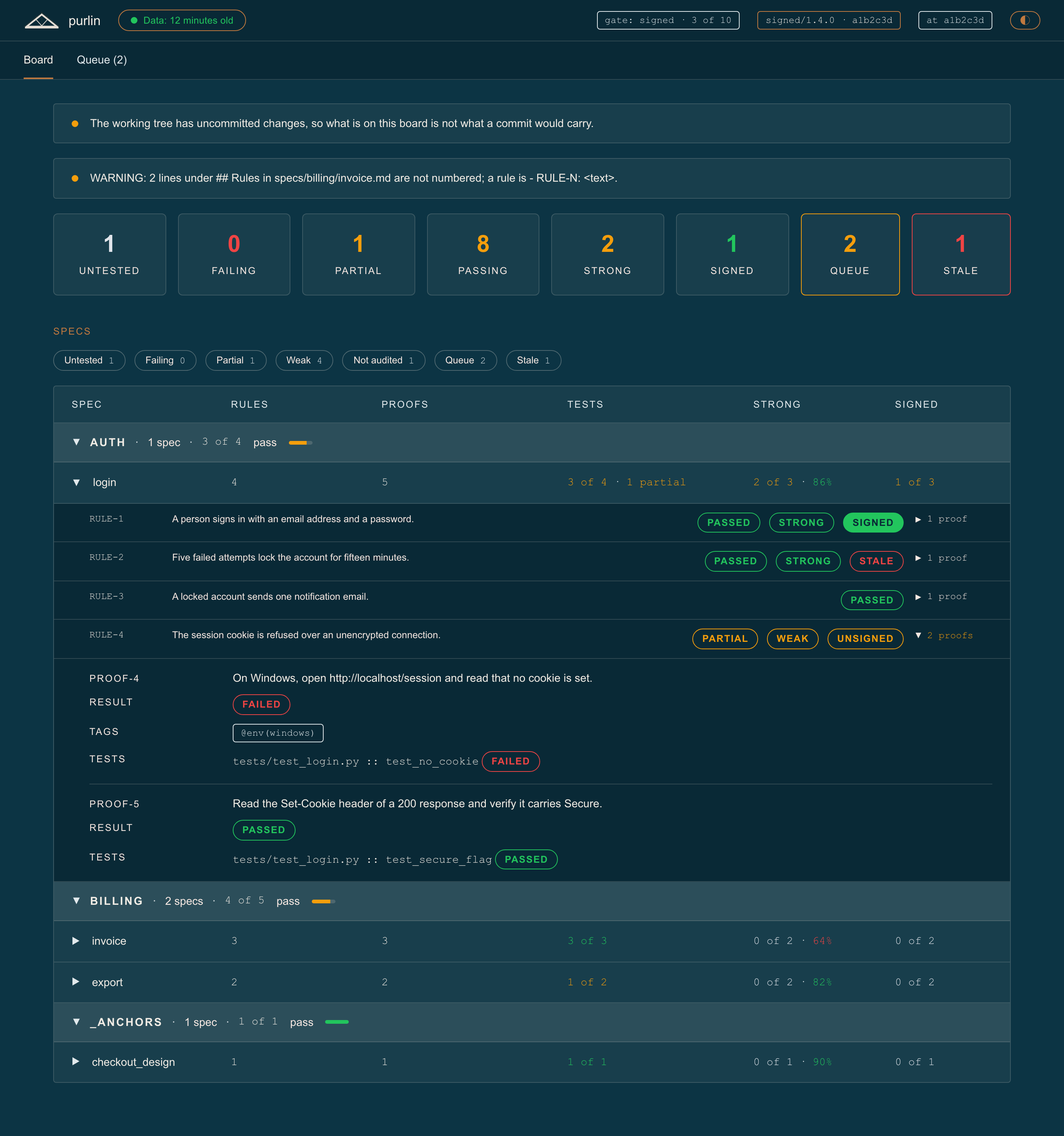
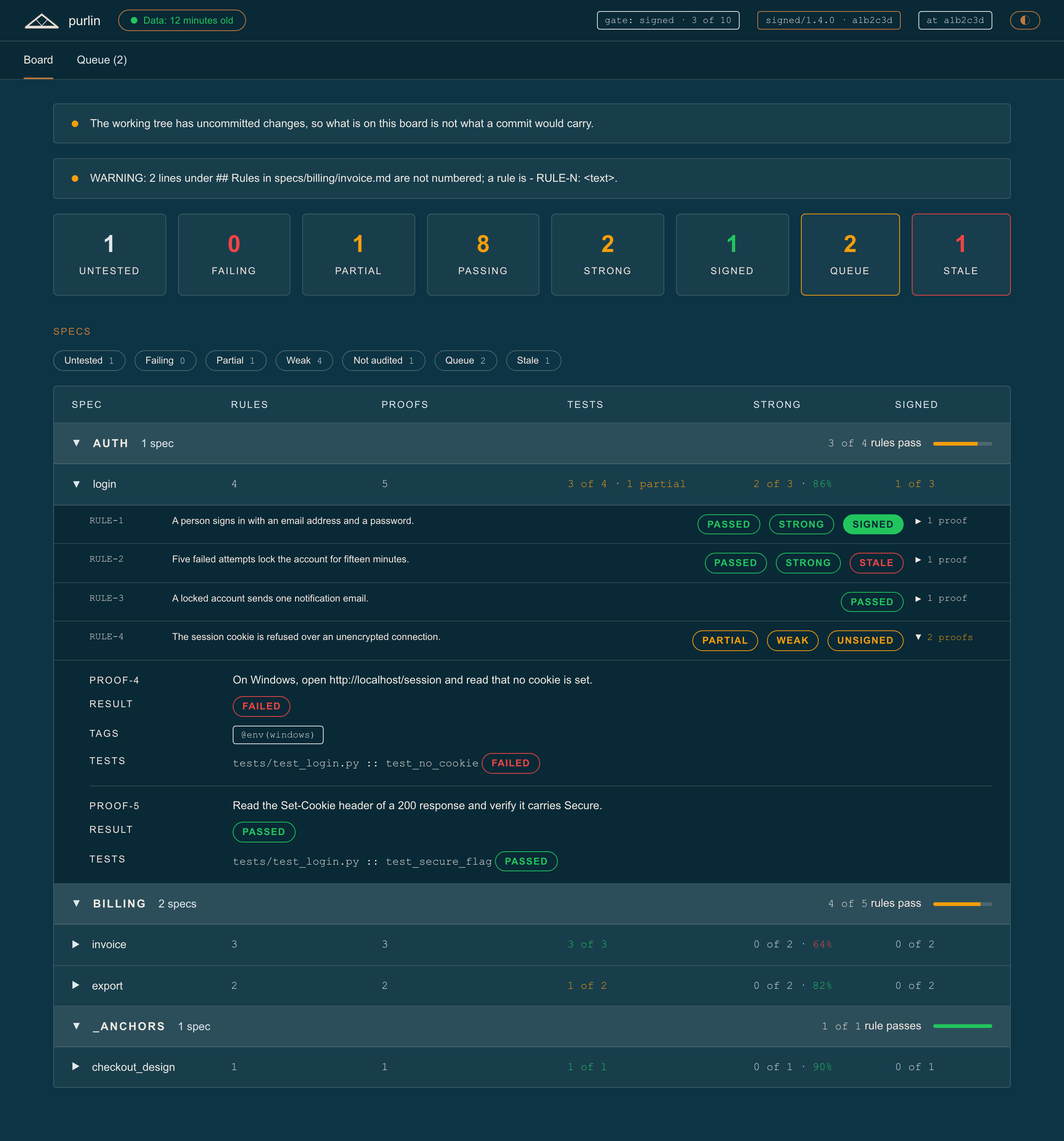
feat(purlin_report): a band has two ends and counts each rule once
The name and its spec count sit at the left, `187 of 187 rules pass` and a
bar of one width at the right, the count beneath the name under 1024
pixels. A band counts the rules its own specs own, so the bands add up to
the top bar's total, and the band folds from the keyboard and says
whether it is open.

Claude-Session: https://claude.ai/code/session_01EY16JPT1BcH9yMJU9cYMBw

diff --git a/scripts/report/purlin-report.html b/scripts/report/purlin-report.html
@@ -60,10 +60,6 @@ h2{font-size:var(--ui-lg);font-weight:var(--weight-bold);margin:0 0 var(--space-
 .pill.solid{background:currentColor}
 .pill b{font-weight:var(--weight-bold)}
 .pill.solid b{color:var(--canvas-deep)}
-.cov{display:inline-flex;align-items:center;gap:var(--space-4);max-width:100%;min-width:0}
-.cov b{font-family:var(--font-mono);font-size:var(--ui-base);font-weight:var(--weight-regular);color:var(--text-primary);white-space:nowrap}
-.cov i{flex:1;min-width:32px;max-width:80px;height:5px;background:var(--border-hairline);border-radius:var(--radius-pill);overflow:hidden;display:inline-block}
-.cov i>span{display:block;height:100%;background:currentColor;transition:width var(--duration-slow) var(--ease-out)}
 pre.code{margin:0;font-family:var(--font-mono);font-size:var(--ui-sm);line-height:1.55;color:var(--text-primary);padding:var(--space-5);background:var(--surface-sunken);border:1px solid var(--border-default);border-radius:var(--radius-sm);overflow-x:auto;white-space:pre-wrap}
 .strip{display:grid;grid-template-columns:1fr;gap:var(--space-4)}
 .strip.flagged{grid-template-columns:7fr 2fr}
@@ -93,8 +89,16 @@ pre.code{margin:0;font-family:var(--font-mono);font-size:var(--ui-sm);line-heigh
 .tr{cursor:pointer;transition:background var(--duration-fast) var(--ease-standard)}
 .tr:hover{background:var(--hover-tint)}
 .tbl>:last-child{border-bottom:0}
-.group{display:flex;align-items:center;flex-wrap:wrap;gap:var(--space-3);padding:var(--space-4) var(--space-6);background:var(--surface-2);border-bottom:1px solid var(--border-hairline);cursor:pointer}
+.group{display:flex;align-items:center;flex-wrap:wrap;gap:var(--space-3) var(--space-8);padding:var(--space-4) var(--space-6);background:var(--surface-2);border-bottom:1px solid var(--border-hairline);cursor:pointer}
+.group:focus-visible{outline:2px solid var(--accent);outline-offset:-2px}
+.group .gl,.group .gr{display:inline-flex;align-items:center;gap:var(--space-4);white-space:nowrap}
+.group .gr{margin-left:auto}
 .group .gt{font-weight:var(--weight-bold);font-size:var(--ui-base);letter-spacing:var(--tracking-label);text-transform:uppercase;color:var(--text-primary)}
+.group .gs{font-size:var(--ui-base);color:var(--text-muted)}
+.group .gc{font-size:var(--ui-base);color:var(--text-secondary)}
+.group .gc b{font-family:var(--font-mono);font-weight:var(--weight-regular)}
+.group .bar{flex:none;width:80px;height:5px;background:var(--border-hairline);border-radius:var(--radius-pill);overflow:hidden;display:inline-block}
+.group .bar>span{display:block;height:100%;background:currentColor}
 .caret{color:var(--text-muted);font-size:var(--ui-sm);flex:none}
 .name{display:flex;align-items:center;gap:var(--space-4);min-width:0}
 .name .n{font-size:var(--ui-base);color:var(--text-primary);overflow:hidden;text-overflow:ellipsis;white-space:nowrap}
@@ -127,7 +131,7 @@ pre.code{margin:0;font-family:var(--font-mono);font-size:var(--ui-sm);line-heigh
 .rev .cmd{white-space:normal;overflow-wrap:anywhere}
 .rev.th{cursor:default}
 .rev.th:hover{background:none}
-@media (max-width:1023px){.topbar{column-gap:var(--space-4);padding:var(--space-3) var(--space-5)}.topbar .spacer{flex-basis:100%;height:0}.tabs{flex-wrap:wrap;column-gap:var(--space-6);padding:0 var(--space-5)}.wrap{padding:var(--space-6) var(--space-5)}.strip,.strip.flagged{grid-template-columns:repeat(4,minmax(0,1fr))}.tiles,.flags{display:contents}.tbl.specs{display:block}.specs .th{display:none}.specs .tr{display:flex;flex-wrap:wrap;align-items:baseline;column-gap:var(--space-6);row-gap:var(--space-2);padding:var(--space-4) var(--space-5)}.specs .tr>div{flex:none}.specs .tr>div:first-child{flex-basis:100%}.specs .tr>div:empty{display:none}.tr>div[data-label],.rev>[data-label]{display:inline-flex;align-items:baseline;gap:var(--space-2);white-space:nowrap}.tr>div[data-label]::before,.rev>[data-label]::before{content:attr(data-label);font-size:var(--ui-sm);letter-spacing:var(--tracking-label);text-transform:uppercase;color:var(--text-secondary)}.rule{grid-template-columns:auto 1fr;grid-template-areas:"rid rp" "rt rt" "rm rm";gap:var(--space-2) var(--space-4);padding:var(--space-3) var(--space-5)}.rule .rid{grid-area:rid;white-space:nowrap}.rule .rp{grid-area:rp;justify-content:flex-start}.rule .rt{grid-area:rt}.rule .rm{grid-area:rm}.rule-proofs{padding:var(--space-4) var(--space-5)}.rev{display:flex;flex-wrap:wrap;align-items:baseline;column-gap:var(--space-6);row-gap:var(--space-2);padding:var(--space-4) var(--space-5)}.rev.th{display:none}.rev>.claim,.rev>.cmd{flex-basis:100%}.group{padding:var(--space-4) var(--space-5)}}
+@media (max-width:1023px){.topbar{column-gap:var(--space-4);padding:var(--space-3) var(--space-5)}.topbar .spacer{flex-basis:100%;height:0}.tabs{flex-wrap:wrap;column-gap:var(--space-6);padding:0 var(--space-5)}.wrap{padding:var(--space-6) var(--space-5)}.strip,.strip.flagged{grid-template-columns:repeat(4,minmax(0,1fr))}.tiles,.flags{display:contents}.tbl.specs{display:block}.specs .th{display:none}.specs .tr{display:flex;flex-wrap:wrap;align-items:baseline;column-gap:var(--space-6);row-gap:var(--space-2);padding:var(--space-4) var(--space-5)}.specs .tr>div{flex:none}.specs .tr>div:first-child{flex-basis:100%}.specs .tr>div:empty{display:none}.tr>div[data-label],.rev>[data-label]{display:inline-flex;align-items:baseline;gap:var(--space-2);white-space:nowrap}.tr>div[data-label]::before,.rev>[data-label]::before{content:attr(data-label);font-size:var(--ui-sm);letter-spacing:var(--tracking-label);text-transform:uppercase;color:var(--text-secondary)}.rule{grid-template-columns:auto 1fr;grid-template-areas:"rid rp" "rt rt" "rm rm";gap:var(--space-2) var(--space-4);padding:var(--space-3) var(--space-5)}.rule .rid{grid-area:rid;white-space:nowrap}.rule .rp{grid-area:rp;justify-content:flex-start}.rule .rt{grid-area:rt}.rule .rm{grid-area:rm}.rule-proofs{padding:var(--space-4) var(--space-5)}.rev{display:flex;flex-wrap:wrap;align-items:baseline;column-gap:var(--space-6);row-gap:var(--space-2);padding:var(--space-4) var(--space-5)}.rev.th{display:none}.rev>.claim,.rev>.cmd{flex-basis:100%}.group{padding:var(--space-4) var(--space-5)}.group .gr{margin-left:0;flex-basis:100%}}
 @media (max-width:599px){.strip,.strip.flagged{grid-template-columns:repeat(2,minmax(0,1fr))}.wrap{padding:var(--space-5) var(--space-4)}.kv{grid-template-columns:1fr;gap:var(--space-1) 0}.kv dd{margin-bottom:var(--space-3)}}
 </style>
 </head>
@@ -437,16 +441,23 @@ function groupBand(name, features, columns) {
   var passing = 0;
   var total = 0;
   features.forEach(function (feature) {
-    passing += reached(feature.rollup || {}, 'passed');
-    total += (feature.rollup || {}).rules || 0;
+    ownRules(feature).forEach(function (rule) {
+      total += 1;
+      passing += cellWord(rule, 'passed') === 'passed' ? 1 : 0;
+    });
   });
-  return '<div class="group" data-act="group" data-group="' + esc(name) + '">'
-    + '<span class="caret">' + (open ? '▼' : '▶') + '</span>'
-    + '<span class="gt">' + esc(name) + '</span><span class="muted">·</span>'
-    + '<span class="sec">' + features.length
-    + (features.length === 1 ? ' spec' : ' specs')
-    + '</span><span class="muted">·</span>' + ratio(passing, total, 'pass')
-    + '</div>'
+  var pct = total ? Math.round((passing / total) * 100) : 0;
+  var hue = total && passing === total ? 'pass' : passing ? 'warn' : 'idle';
+  return '<div class="group" role="button" tabindex="0" aria-expanded="'
+    + (open ? 'true' : 'false') + '" data-act="group" data-group="'
+    + esc(name) + '"><span class="gl"><span class="caret" aria-hidden="true">'
+    + (open ? '▼' : '▶') + '</span><span class="gt">' + esc(name)
+    + '</span><span class="gs">' + features.length
+    + (features.length === 1 ? ' spec' : ' specs') + '</span></span>'
+    + '<span class="gr"><span class="gc"><b>' + passing + ' ' + WORDS.of + ' '
+    + total + '</b> ' + (total === 1 ? 'rule passes' : 'rules pass')
+    + '</span><i class="bar" style="color:var(--state-' + hue + ')"><span'
+    + ' style="width:' + pct + '%"></span></i></span></div>'
     + (open ? features.map(function (feature) {
       return featureRow(feature, columns);
     }).join('') : '');
@@ -819,14 +830,6 @@ function ruleNamed(owner, id) {
 function listedRule(entry) {
   return ruleNamed(entry.owner || entry.feature, entry.rule);
 }
-function ratio(count, total, suffix) {
-  var pct = total ? Math.round((count / total) * 100) : 0;
-  return '<span class="cov" style="color:var(--state-'
-    + (total && count === total ? 'pass' : count ? 'warn' : 'idle')
-    + ')"><b>' + count + ' ' + WORDS.of + ' ' + total + '</b>'
-    + (suffix ? '<span class="sec">' + esc(suffix) + '</span>' : '')
-    + '<i><span style="width:' + pct + '%"></span></i></span>';
-}
 function counts(items) {
   return '<span class="trio">' + items.filter(function (item, index) {
     return index === 0 || item[0];
@@ -1168,6 +1171,17 @@ document.addEventListener('visibilitychange', function () {
 window.addEventListener('focus', refreshIfStale);
 setInterval(tickAge, REFRESH_AFTER * 1000);
 document.getElementById('app').addEventListener('click', onClick);
+document.getElementById('app').addEventListener('keydown', function (event) {
+  var node = event.target;
+  if (!node || node.getAttribute('role') !== 'button'
+      || (event.key !== 'Enter' && event.key !== ' ')) { return; }
+  event.preventDefault();
+  var group = node.getAttribute('data-group');
+  onClick(event);
+  var again = group && document.querySelector('[data-act="group"][data-group="'
+    + CSS.escape(group) + '"]');
+  if (again) { again.focus(); }
+});
 loadData(function (payload) {
   DATA = payload;
   render();

diff --git a/scripts/report/src/styles.css b/scripts/report/src/styles.css
@@ -42,10 +42,6 @@ h2{font-size:var(--ui-lg);font-weight:var(--weight-bold);margin:0 0 var(--space-
 .pill.solid{background:currentColor}
 .pill b{font-weight:var(--weight-bold)}
 .pill.solid b{color:var(--canvas-deep)}
-.cov{display:inline-flex;align-items:center;gap:var(--space-4);max-width:100%;min-width:0}
-.cov b{font-family:var(--font-mono);font-size:var(--ui-base);font-weight:var(--weight-regular);color:var(--text-primary);white-space:nowrap}
-.cov i{flex:1;min-width:32px;max-width:80px;height:5px;background:var(--border-hairline);border-radius:var(--radius-pill);overflow:hidden;display:inline-block}
-.cov i>span{display:block;height:100%;background:currentColor;transition:width var(--duration-slow) var(--ease-out)}
 pre.code{margin:0;font-family:var(--font-mono);font-size:var(--ui-sm);line-height:1.55;color:var(--text-primary);padding:var(--space-5);background:var(--surface-sunken);border:1px solid var(--border-default);border-radius:var(--radius-sm);overflow-x:auto;white-space:pre-wrap}
 
 /* --- stat strip and flag card ---------------------------------------- */
@@ -83,8 +79,16 @@ pre.code{margin:0;font-family:var(--font-mono);font-size:var(--ui-sm);line-heigh
 .tr{cursor:pointer;transition:background var(--duration-fast) var(--ease-standard)}
 .tr:hover{background:var(--hover-tint)}
 .tbl>:last-child{border-bottom:0}
-.group{display:flex;align-items:center;flex-wrap:wrap;gap:var(--space-3);padding:var(--space-4) var(--space-6);background:var(--surface-2);border-bottom:1px solid var(--border-hairline);cursor:pointer}
+.group{display:flex;align-items:center;flex-wrap:wrap;gap:var(--space-3) var(--space-8);padding:var(--space-4) var(--space-6);background:var(--surface-2);border-bottom:1px solid var(--border-hairline);cursor:pointer}
+.group:focus-visible{outline:2px solid var(--accent);outline-offset:-2px}
+.group .gl,.group .gr{display:inline-flex;align-items:center;gap:var(--space-4);white-space:nowrap}
+.group .gr{margin-left:auto}
 .group .gt{font-weight:var(--weight-bold);font-size:var(--ui-base);letter-spacing:var(--tracking-label);text-transform:uppercase;color:var(--text-primary)}
+.group .gs{font-size:var(--ui-base);color:var(--text-muted)}
+.group .gc{font-size:var(--ui-base);color:var(--text-secondary)}
+.group .gc b{font-family:var(--font-mono);font-weight:var(--weight-regular)}
+.group .bar{flex:none;width:80px;height:5px;background:var(--border-hairline);border-radius:var(--radius-pill);overflow:hidden;display:inline-block}
+.group .bar>span{display:block;height:100%;background:currentColor}
 .caret{color:var(--text-muted);font-size:var(--ui-sm);flex:none}
 .name{display:flex;align-items:center;gap:var(--space-4);min-width:0}
 .name .n{font-size:var(--ui-base);color:var(--text-primary);overflow:hidden;text-overflow:ellipsis;white-space:nowrap}
@@ -151,6 +155,7 @@ pre.code{margin:0;font-family:var(--font-mono);font-size:var(--ui-sm);line-heigh
 .rev.th{display:none}
 .rev>.claim,.rev>.cmd{flex-basis:100%}
 .group{padding:var(--space-4) var(--space-5)}
+.group .gr{margin-left:0;flex-basis:100%}
 }
 @media (max-width:599px){
 .strip,.strip.flagged{grid-template-columns:repeat(2,minmax(0,1fr))}

diff --git a/scripts/report/src/board.js b/scripts/report/src/board.js
@@ -305,27 +305,37 @@ function proofsUnder(rule) {
   return '<div class="rule-proofs">' + body + '</div>';
 }
 
-/* The band over a category's specs, and what its two numbers are. `MCP (6) 5
-   of 113` left the reader to guess both, so the band says them: how many specs
-   the category holds, then how many of their rules pass their tests, in the
-   same words and the same mono face the tiles use. The gate ratio is not
-   here: the `Signed` column carries it for each spec and the top bar's gate
-   chip carries it for the project. */
+/* The band over a category's specs, one row with two ends. At the left the
+   glyph, the category's name, which is the strongest thing in the band, and
+   how many specs it holds; at the right how many of their rules pass their
+   tests, `187 of 187 rules pass`, and a bar of one fixed width, so the bars
+   line up down the page. A band counts each rule once, under the spec that
+   owns it, as the tiles do: a shared rule is counted in its anchor's band,
+   so the bands add up to the top bar's total. The whole band is the control
+   that folds the group, from the keyboard too, and says whether it is open.
+   Under 1024 pixels the right end drops beneath the left. */
 function groupBand(name, features, columns) {
   var open = VIEW.groups[name] !== false;
   var passing = 0;
   var total = 0;
   features.forEach(function (feature) {
-    passing += reached(feature.rollup || {}, 'passed');
-    total += (feature.rollup || {}).rules || 0;
+    ownRules(feature).forEach(function (rule) {
+      total += 1;
+      passing += cellWord(rule, 'passed') === 'passed' ? 1 : 0;
+    });
   });
-  return '<div class="group" data-act="group" data-group="' + esc(name) + '">'
-    + '<span class="caret">' + (open ? '▼' : '▶') + '</span>'
-    + '<span class="gt">' + esc(name) + '</span><span class="muted">·</span>'
-    + '<span class="sec">' + features.length
-    + (features.length === 1 ? ' spec' : ' specs')
-    + '</span><span class="muted">·</span>' + ratio(passing, total, 'pass')
-    + '</div>'
+  var pct = total ? Math.round((passing / total) * 100) : 0;
+  var hue = total && passing === total ? 'pass' : passing ? 'warn' : 'idle';
+  return '<div class="group" role="button" tabindex="0" aria-expanded="'
+    + (open ? 'true' : 'false') + '" data-act="group" data-group="'
+    + esc(name) + '"><span class="gl"><span class="caret" aria-hidden="true">'
+    + (open ? '▼' : '▶') + '</span><span class="gt">' + esc(name)
+    + '</span><span class="gs">' + features.length
+    + (features.length === 1 ? ' spec' : ' specs') + '</span></span>'
+    + '<span class="gr"><span class="gc"><b>' + passing + ' ' + WORDS.of + ' '
+    + total + '</b> ' + (total === 1 ? 'rule passes' : 'rules pass')
+    + '</span><i class="bar" style="color:var(--state-' + hue + ')"><span'
+    + ' style="width:' + pct + '%"></span></i></span></div>'
     + (open ? features.map(function (feature) {
       return featureRow(feature, columns);
     }).join('') : '');

diff --git a/scripts/report/src/app.js b/scripts/report/src/app.js
@@ -209,18 +209,6 @@ function listedRule(entry) {
   return ruleNamed(entry.owner || entry.feature, entry.rule);
 }
 
-/* `n of m` with a bar beside it. The bar is the share, so a spec of three
-   rules and a spec of three hundred read at the same glance. `suffix` says
-   what the share is of, where the column heading is not there to say it. */
-function ratio(count, total, suffix) {
-  var pct = total ? Math.round((count / total) * 100) : 0;
-  return '<span class="cov" style="color:var(--state-'
-    + (total && count === total ? 'pass' : count ? 'warn' : 'idle')
-    + ')"><b>' + count + ' ' + WORDS.of + ' ' + total + '</b>'
-    + (suffix ? '<span class="sec">' + esc(suffix) + '</span>' : '')
-    + '<i><span style="width:' + pct + '%"></span></i></span>';
-}
-
 /* Several counts in one cell, each labelled with the word it counts and set
    in that word's tone. `24 passed · 2 failing` says what a bare `24 · 2 · 0`
    left the reader to work out from the heading. The first part is always
@@ -674,6 +662,19 @@ document.addEventListener('visibilitychange', function () {
 window.addEventListener('focus', refreshIfStale);
 setInterval(tickAge, REFRESH_AFTER * 1000);
 document.getElementById('app').addEventListener('click', onClick);
+/* A band is a control drawn as a row, so Enter and Space press it as they
+   press a button, and the focus comes back to it once the page is drawn. */
+document.getElementById('app').addEventListener('keydown', function (event) {
+  var node = event.target;
+  if (!node || node.getAttribute('role') !== 'button'
+      || (event.key !== 'Enter' && event.key !== ' ')) { return; }
+  event.preventDefault();
+  var group = node.getAttribute('data-group');
+  onClick(event);
+  var again = group && document.querySelector('[data-act="group"][data-group="'
+    + CSS.escape(group) + '"]');
+  if (again) { again.focus(); }
+});
 loadData(function (payload) {
   DATA = payload;
   render();

diff --git a/dev/test_purlin_report.py b/dev/test_purlin_report.py
@@ -624,10 +624,60 @@ def test_the_group_band_says_what_its_numbers_are(browser, tmp_path):
     bands = page.eval_on_selector_all(
         '.group',
         r'els => els.map(e => e.innerText.replace(/\s+/g, " ").trim())')
-    assert bands == ['\u25bc AUTH \u00b7 1 spec \u00b7 3 of 4 pass',
-                     '\u25bc BILLING \u00b7 2 specs \u00b7 4 of 5 pass',
-                     '\u25bc _ANCHORS \u00b7 1 spec \u00b7 1 of 1 pass']
+    assert bands == ['\u25bc AUTH 1 spec 3 of 4 rules pass',
+                     '\u25bc BILLING 2 specs 4 of 5 rules pass',
+                     '\u25bc _ANCHORS 1 spec 1 of 1 rule passes']
     page.close()
+
+
+# Each band's two ends and its bar: where each sits, and how wide the bar is.
+BAND_ENDS = r"""els => els.map(e => {
+  const l = e.querySelector('.gl').getBoundingClientRect();
+  const r = e.querySelector('.gr').getBoundingClientRect();
+  const bar = e.querySelector('.bar').getBoundingClientRect();
+  const gap = e.querySelector('.gs').getBoundingClientRect().left
+    - e.querySelector('.gt').getBoundingClientRect().right;
+  return {sameLine: Math.abs(l.top - r.top) < 4, rightEdge: r.right,
+          boxRight: e.getBoundingClientRect().right, leftOfRight: r.left,
+          leftOfLeft: l.left, barWidth: bar.width, barRight: bar.right,
+          gap: gap, count: parseInt(e.querySelector('.gc b').textContent
+            .split(' of ')[1], 10)};
+})"""
+
+
+# purlin: purlin_report PROOF-77
+def test_a_band_has_two_ends_and_counts_each_rule_once(browser, tmp_path):
+    for name in ('regulated', 'team'):
+        payload = payload_named(name)
+        page = open_board(browser, tmp_path / name, payload,
+                          viewport={'width': 1500, 'height': 900})
+        ends = page.eval_on_selector_all('.group', BAND_ENDS)
+        assert sum(end['count'] for end in ends) == payload['summary']['rules']
+        assert ('of %d' % payload['summary']['rules']) in page.inner_text(
+            '.topbar')
+        for end in ends:
+            assert end['sameLine'], end
+            assert abs(end['boxRight'] - end['rightEdge']) <= 40, end
+            assert end['gap'] >= 16, end
+            assert end['barWidth'] == ends[0]['barWidth'], ends
+            assert abs(end['barRight'] - ends[0]['barRight']) < 1, ends
+        page.close()
+    narrow = open_board(browser, tmp_path / 'narrow', payload_named('regulated'),
+                        viewport={'width': 390, 'height': 900})
+    for end in narrow.eval_on_selector_all('.group', BAND_ENDS):
+        assert not end['sameLine'], end
+        assert abs(end['leftOfRight'] - end['leftOfLeft']) < 2, end
+    band = '.group[data-group="auth"]'
+    assert narrow.get_attribute(band, 'aria-expanded') == 'true'
+    narrow.focus(band)
+    narrow.keyboard.press('Enter')
+    assert narrow.get_attribute(band, 'aria-expanded') == 'false'
+    assert narrow.evaluate('document.activeElement.getAttribute("data-group")') \
+        == 'auth'
+    assert 'login' not in narrow.inner_text('.tbl')
+    narrow.keyboard.press(' ')
+    assert narrow.get_attribute(band, 'aria-expanded') == 'true'
+    narrow.close()
 
 
 # purlin: purlin_report PROOF-10

diff --git a/specs/dashboard/purlin_report.md b/specs/dashboard/purlin_report.md
@@ -49,7 +49,7 @@
 - RULE-33: Every column heading of the spec table starts where its column's cells start in every row, so a wide cell never pushes its row's columns out of line with the headings [level: passed]
 - RULE-34: No text the board draws is set smaller than 13 pixels, in either theme [level: passed]
 - RULE-35: A value never breaks inside itself: a count cell such as `42 · 2 no test`, `21 of 21` or `15 (+6 shared)` is one line at every width, and each value column of the spec table is at least as wide as its widest value, the same in every row, while the spec's name is the one text cut short, with its path in the hover. Every heading and every cell starts at its column's left edge; nothing on the table is aligned right, because two bare number columns twelve pixels apart read as one number. From 1024 pixels wide up every column the gate reaches is on screen, the table scrolls sideways zero pixels and the page does too [level: passed]
-- RULE-36: The band over each category names the category, how many specs it holds, and how many of their rules pass their tests, reading `<category> · <n> specs · <passing> of <rules> pass` with the share bar after it and `1 spec` where it holds one [level: passed]
+- RULE-36: The band over each category is one row with two ends: at the left the open or closed glyph, the category's name, the strongest text in the band, and how many specs it holds in the muted colour, `6 specs` or `1 spec`, at least 16 pixels apart and with no `·` between them; at the right, at the table's right edge, `<passing> of <rules> rules pass`, `1 of 1 rule passes` for one, then a bar of one width in every band. A band counts each rule once, under the spec that owns it, so a shared rule is counted in its anchor's band and the bands add up to the top bar's total. Under 1024 pixels the right end sits beneath the left, left-aligned. The whole band is the control that folds its group, pressed with a click, Enter or Space, and tells a screen reader whether it is open [level: passed]
 - RULE-37: Every hover on the board is a `title` attribute, one item to a line and the parts of an item separated by a middot, so a page opened from disk needs no script to show it. The `Spec` cell's hover is the spec's path; the `Proofs` cell's hover names the proofs no test runs; the `Tests` cell's hover reads one line per operating system a counting run covered, newest run first, naming that system, the source of its newest run, that run's age and how its rules came out; the `Strong` cell's hover names the newest audit's source and age and the minimum strength; the `Signed` cell's hover names each signer with the date of their newest signature and then the stale count. The `Passing`, `Strong` and `Signed` tiles carry the same three hovers read over every spec, and the `Untested`, `Failing` and `Partial` tiles each say in one sentence what they count, the `Untested` tile adding one line per word its rules' passed cells read, with how many, as `no test · 3` and `not run · 552` [level: passed]
 - RULE-39: At `strong` and above the rule screen of a rule whose level is `strong` or `signed` carries an `Audit` panel that reads what the audit found: `Strong. It found nothing.`, `Weak.` or `Undecided.` with the reason the rule reads weak, then each finding on a line of its own in the sentence the audit wrote, then the test strength beside the minimum or `no mutation score measured`, then the model that read the rule and the date and minute it did; a rule no audit has read says so in place of the answer [level: passed]
 - RULE-40: At the gate `signed` the top bar states the signed tag the payload names, its name and the first seven characters of the commit it points at, and reads `no signed tag` where the payload names none; below `signed` the top bar shows no tag at all [level: passed]
@@ -105,7 +105,7 @@
 - PROOF-40 (RULE-9): Open the board with the regulated fixture, one of login's rules rewritten to a failing passed cell; verify login's `Tests` cell reads `2 of 4 · 1 partial · 1 failing`, that export's reads `1 of 2`, one of its two rules being behind changed code, that login's `Proofs` cell reads `5` alone, that invoice's reads `3` alone because its third proof is `@manual`, that login's `Strong` cell reads `2 of 3 · 86%`, its `[level: passed]` `RULE-3` not counted, that checkout_design's reads `0 of 1 · 90%`, that login's `Signed` cell reads `1 of 3` and that invoice's reads `0 of 2`, its `[level: passed]` `RULE-1` not counted; open the team fixture and verify invoice's `Proofs` cell reads `2 · 1 no test`
 - PROOF-41 (RULE-34): Open the board with the regulated fixture on the dark theme and open a spec row; collect every element that carries text of its own and verify the smallest computed font size on the screen is 13 pixels or more
 - PROOF-42 (RULE-35): Open the board with the regulated fixture at 1920, 1440, 1280 and 1024 wide and verify at each width that 0 column headings overflow their own box, that the table and the page scroll sideways 0 pixels, that the right edge of the last heading, `Signed`, is inside the window, that 0 elements on the table are aligned right, and that every count cell draws its parts on one line; open the team fixture at each width and verify receipt's row reads `1 (+1 shared)` on one line. A count cell whose parts sit on two lines fails
-- PROOF-43 (RULE-36): Open the board with the regulated fixture and verify the three bands read `AUTH · 1 spec · 3 of 4 pass`, `BILLING · 2 specs · 4 of 5 pass` and `_ANCHORS · 1 spec · 1 of 1 pass`, each behind the open caret
+- PROOF-43 (RULE-36): Open the board with the regulated fixture and verify the three bands read `▼ AUTH 1 spec 3 of 4 rules pass`, `▼ BILLING 2 specs 4 of 5 rules pass` and `▼ _ANCHORS 1 spec 1 of 1 rule passes`, with no `·` in any of them
 - PROOF-49 (RULE-32): Open the board with the regulated fixture and verify the two flag cards read `Queue` 2 and `Stale` 1, and that the `Queue` card's hover reads `invoice · 1` and `login · 1`, one to a line; open it with the queue count set to 0 and the queue emptied and verify that card's hover reads `No rule is waiting for a person.` and that it does not carry the warn tone
 - PROOF-52 (RULE-26): Open the regulated fixture and open invoice `RULE-1`, which is marked `[level: passed]` and waits on nobody; verify the screen carries 0 panels with a heading and 0 occurrences of `purlin:sign`, and that its first panel's rows read exactly `Passed`, `Level`, `Spec` and `Last run`
 - PROOF-53 (RULE-15): Open the regulated fixture and open login `RULE-1`; verify the rows of its first panel read exactly `Passed`, `Strong`, `Signed`, `Level`, `Spec`, `Last run`, `Signatures` and that the `Level` row reads `signed (the gate)`; open invoice `RULE-1`, which is marked `[level: passed]`, and verify its `Level` row reads `passed (marked)`; open the solo fixture, whose gate is `passed`, and verify its rule screen carries no `Level` row
@@ -135,3 +135,4 @@
 - PROOF-74 (RULE-48): In that project open each of login's first four rules; verify the `[level: passed]` rule's first rows read `Passed`, `Level`, `Spec` with 0 panels with a heading and no `purlin:sign`, the `[level: strong]` rule's `Passed`, `Strong`, `Level` with the one panel `Audit`, the unmarked rule's `Passed`, `Strong`, `Signed` with the panels `Audit` and `Signature` and the command `purlin:sign`, and the failing `[level: passed]` rule's `Passed`, `Level`, `Spec` with 0 panels with a heading
 - PROOF-75 (RULE-49): Open the regulated fixture at 1500, 1280, 1024, 768 and 390 pixels wide, in the dark theme and then the light one; open login, open `RULE-4`'s proofs, then open `RULE-1`'s screen, then the Queue tab; verify on each of the three screens that the page scrolls sideways 0 pixels and that no count, label, pill, chip, rule id or queue value sits on more than one line. Open the team fixture at each width and verify receipt's row holds `1 (+1 shared)` on one line with no sideways scroll. A count drawn over two lines, or a page wider than its window, fails
 - PROOF-76 (RULE-49): Open the regulated fixture at 768 pixels wide and verify the first row of tiles holds 4 cards, and at 1024 all of them sit on one row; open the team fixture at 390 pixels wide and verify the first row holds 2 cards, that no heading row is on screen, and that receipt's block reads its name and then `1 (+1 shared)` under the label `Rules`. A row of 3 cards at 768, or a heading row at 390, fails
+- PROOF-77 (RULE-36): Open the regulated fixture and then the team fixture, whose receipt spec proves an anchor's rule, at 1500 pixels wide; verify each band's count and bar sit on the same line as its name, ending within 40 pixels of the band's right edge, that the name and the spec count are at least 16 pixels apart, that every bar is the same width and ends at the same point, and that the bands' rule totals add up to the top bar's total, 10 and 7. Open the regulated fixture at 390 pixels wide and verify each band's count sits on a line beneath its name, starting at the same left edge; press Enter on the auth band and verify it reads as closed to a screen reader, keeps the focus and hides login, then press Space and verify it reads as open. A band total that counts receipt's shared rule twice fails

diff --git a/docs/dashboard.md b/docs/dashboard.md
@@ -85,8 +85,11 @@ A spec with no `> Scope:` line names no files, so Purlin cannot tell which code 
 row reads `<name> · no scope`, and the hover gives the reason. A `purlin:test` with no feature
 named always runs such a spec, and at `signed` none of its rules can be signed.
 
-Specs are grouped by category. The band above each group reads `billing · 2 specs · 4 of 5
-pass` with a bar after it. Pressing a band folds it; pressing a spec expands the rules it owns.
+Specs are grouped by category. The band above each group has two ends: the category's name
+and `2 specs` at the left, `4 of 5 rules pass` and a bar at the right, every bar one width so
+they line up down the page. A band counts each rule once, under the spec that owns it, so the
+bands add up to the top bar's total; under 1024 pixels its count sits beneath its name.
+Pressing a band, or Enter or Space on it, folds it; pressing a spec expands the rules it owns.
 A rule a feature proves from an anchor is listed once, under that anchor, where the board lists
 the anchor. Each rule row carries the rule id, the rule text, one pill per cell that exists,
 reading the cell's word, and a button that opens the rule's proofs:
